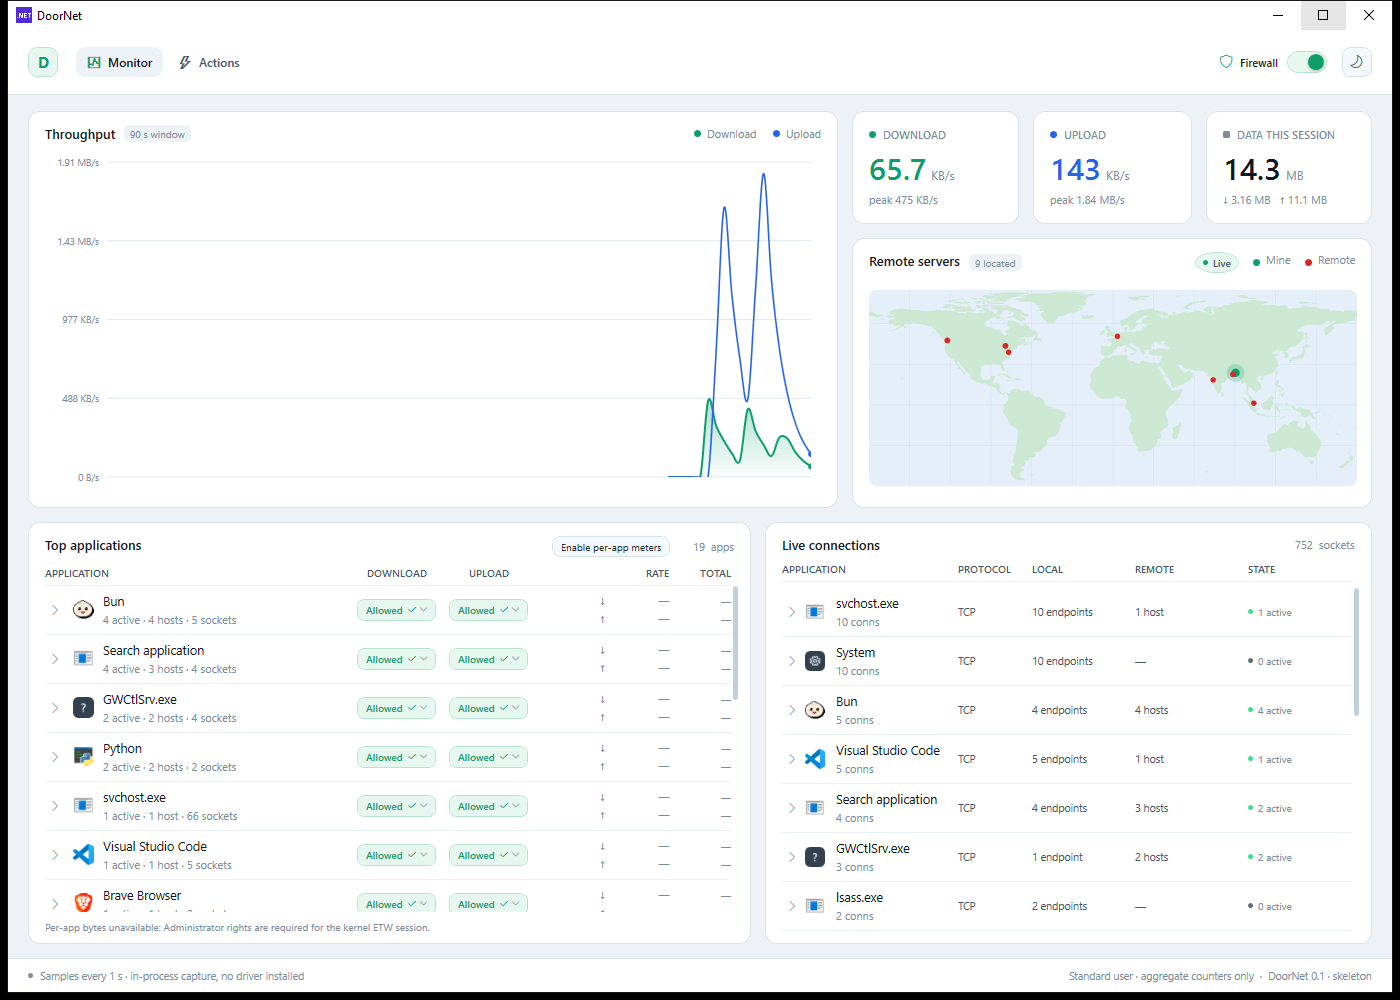
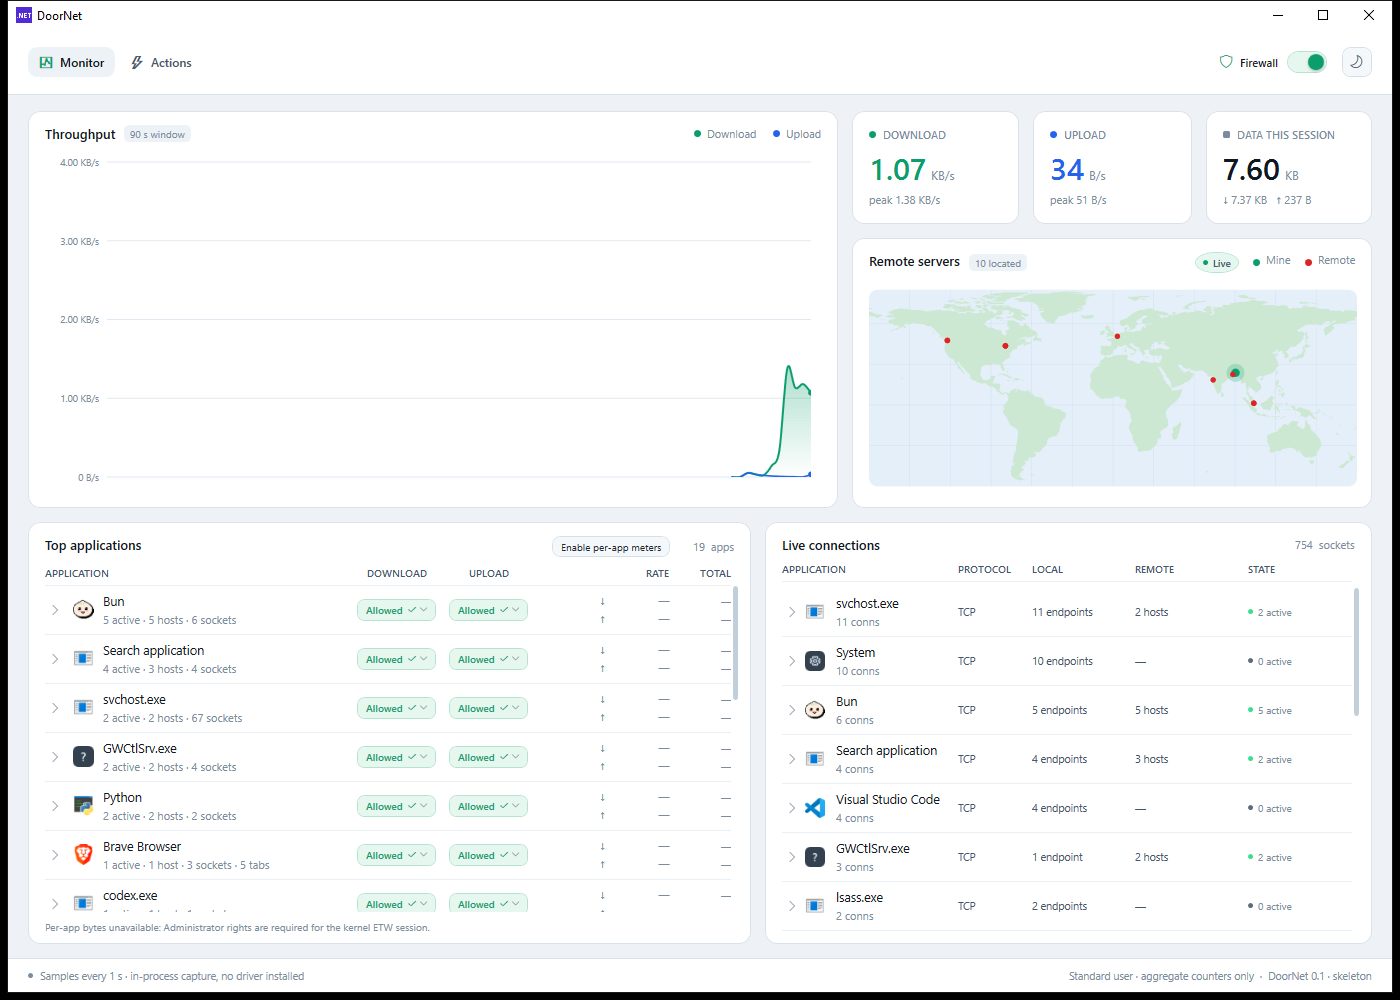
Remove the D badge from the header
The header now starts directly with the Monitor and Actions tabs; the product mark is gone, leaving the window title as the only branding.

diff --git a/src/DoorNet.App/MainWindow.xaml b/src/DoorNet.App/MainWindow.xaml
@@ -37,22 +37,9 @@
                     <ColumnDefinition Width="Auto" />
                 </Grid.ColumnDefinitions>
 
-                <StackPanel Orientation="Horizontal" VerticalAlignment="Center">
-                    <Border Width="30" Height="30" CornerRadius="9" Background="{DynamicResource LogoBrush}" BorderBrush="{DynamicResource LogoBorderBrush}" BorderThickness="1">
-                        <TextBlock Text="D"
-                                   FontFamily="{StaticResource DisplayFont}"
-                                   FontSize="15"
-                                   FontWeight="Bold"
-                                   Foreground="{DynamicResource DownloadBrush}"
-                                   HorizontalAlignment="Center"
-                                   VerticalAlignment="Center" />
-                    </Border>
-                </StackPanel>
-
-                <StackPanel Grid.Column="1"
+                <StackPanel Grid.Column="0"
                             Orientation="Horizontal"
-                            VerticalAlignment="Center"
-                            Margin="18,0,0,0">
+                            VerticalAlignment="Center">
                     <RadioButton x:Name="MonitorTab"
                                  GroupName="NavTabs"
                                  IsChecked="True"
